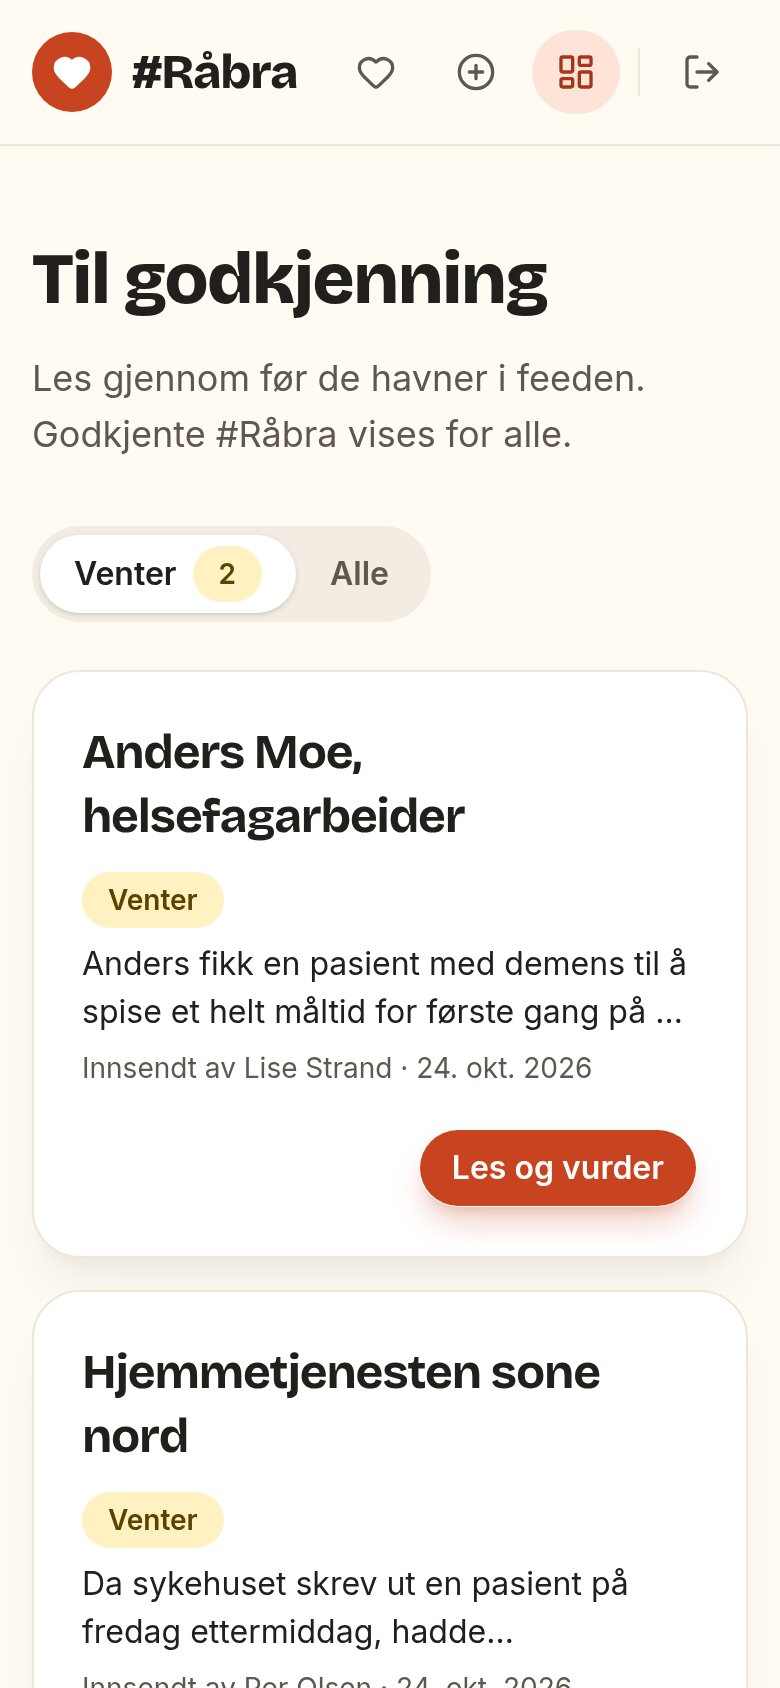
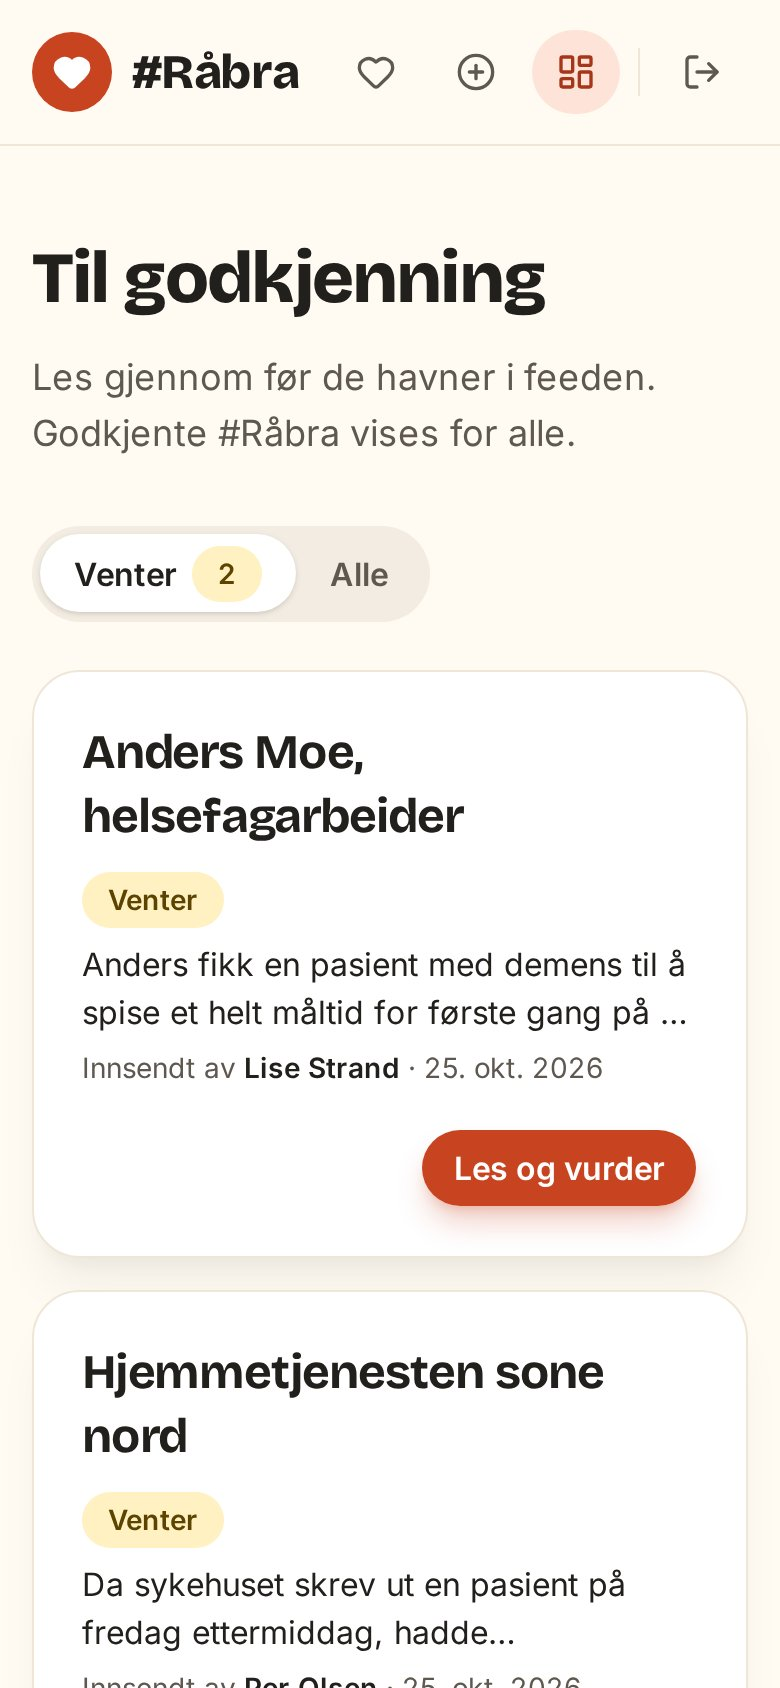
chore: add a script that retakes the project screenshots from the demos (#19)
## Summary

`bun run screenshots` retakes the eight images in `public/prosjekter/`
from the public demos. It is run by hand.

```text
for each shot (file, url, phone 390×844@2x | desktop 1280×800@1.5x, light | dark)
  new browser context
  goto url, wait for network idle
  setup: dismiss Proof's "Try this" box | select 3a in the tree | scroll to <main>
  wait for fonts and every finite animation
  save as JPEG, quality 85
```

```diff
+scripts/screenshots.ts      # the list of shots and the loop
 package.json                # "screenshots" script, playwright in devDependencies
 README.md                   # how to run it
 public/prosjekter/*.jpg     # retaken by the script
```

Playwright is a new dev dependency. The shots need clicks and waits that
`chromium --headless --screenshot` can't do: closing a hint and
selecting a version in the tree.

## Evidence

- **Before:** the screenshots were taken by hand. `2c2728d` had to
retake the tree shot because it caught a fade halfway.
**After:** one run writes all eight files at the existing sizes
(780×1688 and 1920×1200). The first run reproduced the mid-fade tree
bug, because `reducedMotion` doesn't stop the demo's CSS transition.
Waiting on `document.getAnimations()` fixed it. `bun run build` passes.
- The retaken images look like the old ones. The visible differences are
the #Råbra dates, which now say "25. okt. 2026", and submitter names in
bold, which is a change in the app.

## Merge Danger

**Door:** two-way
[…]

diff --git a/scripts/screenshots.ts b/scripts/screenshots.ts
@@ -1,0 +1,84 @@
+// Retakes the project screenshots in public/prosjekter/ from the public demos. Run it by hand with
+// `bun run screenshots` after a demo's UI changes, and look over the new images before committing them.
+import { chromium, type Page } from 'playwright';
+
+// The sizes the project pages expect: phone shots are 780×1688 and desktop shots 1920×1200
+const phone = { viewport: { width: 390, height: 844 }, deviceScaleFactor: 2 };
+const desktop = { viewport: { width: 1280, height: 800 }, deviceScaleFactor: 1.5 };
+
+// Each demo is shot in the color scheme its images on the site already use
+const proof = { url: 'https://demo.proof.tommeras.no', colorScheme: 'dark' } as const;
+const rabra = { url: 'https://demo.rabra.tommeras.no', colorScheme: 'light' } as const;
+
+interface Shot {
+  file: string;
+  demo: typeof proof | typeof rabra;
+  path: string;
+  device: typeof phone;
+  // Clicks and scrolling that bring the page to the state the image shows
+  setup?: (page: Page) => Promise<void>;
+}
+
+// The recipe and tree shots start at the back link, below the demo banner and navigation. Instant, so a
+// smooth-scroll setting in the demo can't leave the shot halfway down.
+const scrollToMain = (page: Page) =>
+  page.locator('main').evaluate((main) => main.scrollIntoView({ behavior: 'instant' }));
+
+const espressoMartini = '/cocktails/df8e8718-ea6b-48bb-8910-9aaeb0df8689';
+
+const shots: Shot[] = [
+  {
+    file: 'proof-liste.jpg',
+    demo: proof,
+    path: '/cocktails',
+    device: phone,
+    // The "Try this" box isn't in the image. Skipped when the demo no longer shows it, so the run goes on.
+    setup: async (page) => {
+      const dismiss = page.getByRole('button', { name: 'Dismiss' });
+      if (await dismiss.isVisible()) await dismiss.click();
+    },
+  },
+  { file: 'proof-oppskrift.jpg', demo: proof, path: espressoMartini, device: phone, setup: scrollToMain },
+  {
+    file: 'proof-tre.jpg',
+    demo: proof,
+    path: `${espressoMartini}/tree`,
+    device: phone,
+    setup: async (page) => {
+      await page.locator('button[aria-pressed]', { hasText: '3a' }).click();
+      await scrollToMain(page);
+    },
+  },
+  { file: 'rabra-feed.jpg', demo: rabra, path: '/', device: phone },
+  { file: 'rabra-send-inn.jpg', demo: rabra, path: '/send-inn', device: phone },
+  { file: 'rabra-admin.jpg', demo: rabra, path: '/admin', device: phone },
+  { file: 'rabra-feed-desktop.jpg', demo: rabra, path: '/', device: desktop },
+  { file: 'rabra-admin-desktop.jpg', demo: rabra, path: '/admin', device: desktop },
+];
+
+const browser = await chromium.launch();
+for (const shot of shots) {
+  // A fresh context per shot, so state one demo keeps in the tab doesn't leak into the next shot
+  const context = await browser.newContext({ ...shot.device, colorScheme: shot.demo.colorScheme });
+  const page = await context.newPage();
+  await page.goto(shot.demo.url + shot.path, { waitUntil: 'networkidle' });
+  await shot.setup?.(page);
+  // Waits out transitions so a shot doesn't catch one halfway, like the tree's version boxes fading. Endless
+  // and paused animations are skipped because they never finish.
+  await page.evaluate(() =>
+    Promise.all([
+      document.fonts.ready,
+      ...document
+        .getAnimations()
+        .filter(
+          (animation) =>
+            animation.playState === 'running' && animation.effect?.getComputedTiming().endTime !== Infinity,
+        )
+        .map((animation) => animation.finished),
+    ]),
+  );
+  await page.screenshot({ path: `public/prosjekter/${shot.file}`, type: 'jpeg', quality: 85 });
+  await context.close();
+  console.log(shot.file);
+}
+await browser.close();

diff --git a/README.md b/README.md
@@ -19,6 +19,13 @@ $ bun run build  # astro check og statisk bygg til dist/
 $ bun run format # Prettier
 ```
 
+Skjermbildene i `public/prosjekter/` tas fra de åpne demoene. Kjør skriptet når en demo har endret seg, og se over bildene før du committer dem:
+
+```console
+$ bunx playwright install chromium # første gang
+$ bun run screenshots
+```
+
 ## Filer
 
 ```console
